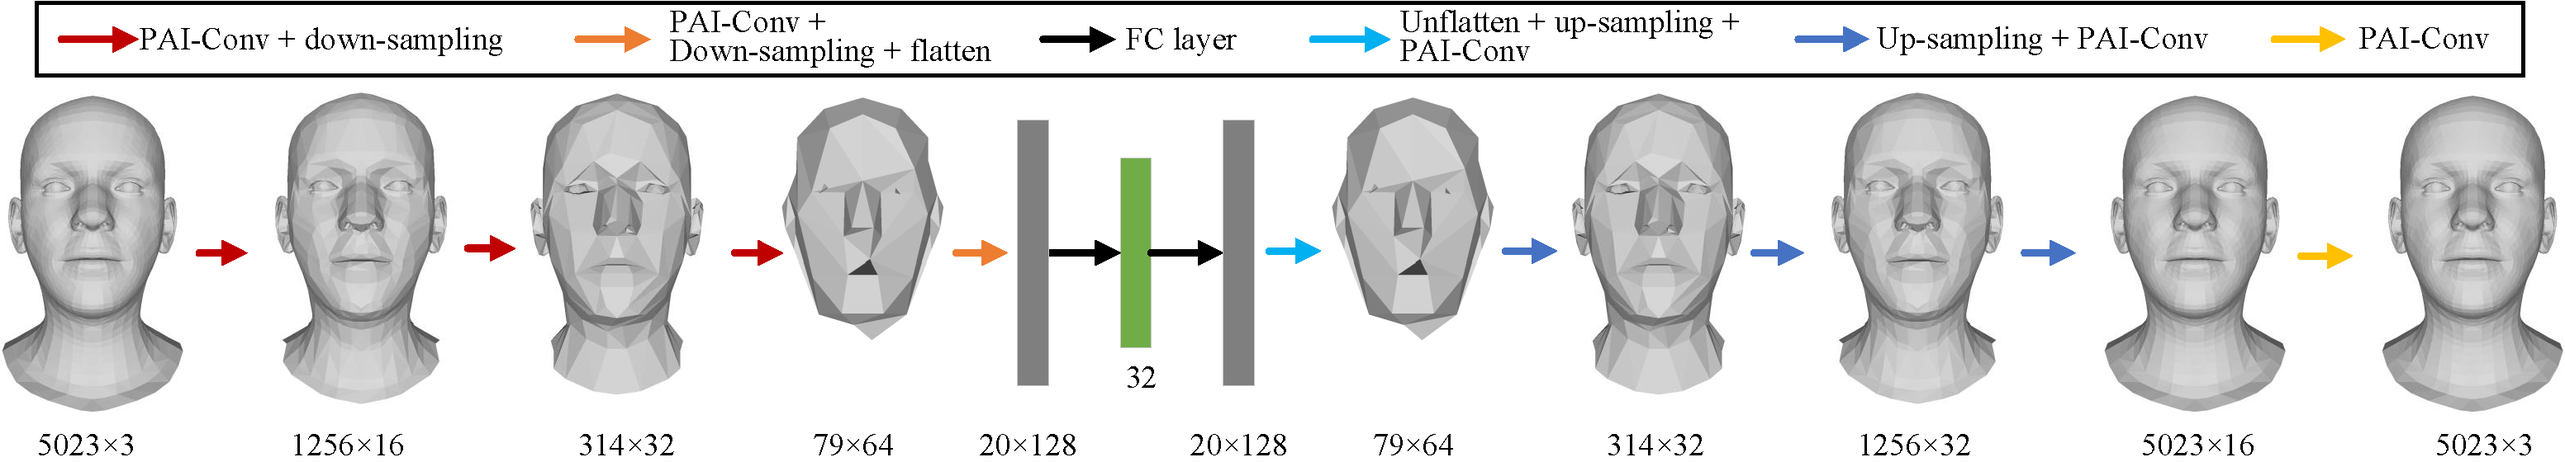
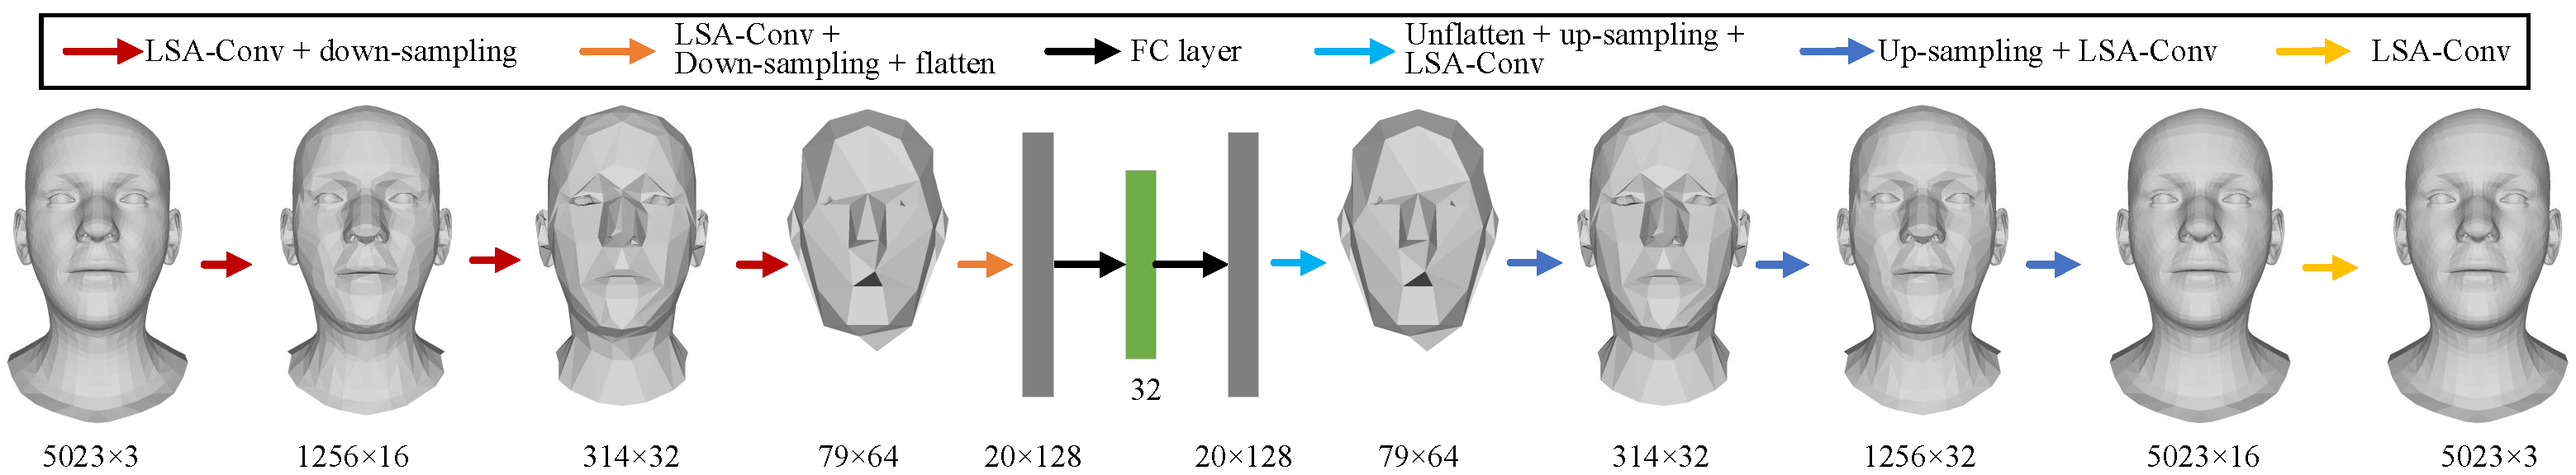
update figures

diff --git a/README.md b/README.md
@@ -7,7 +7,8 @@ Mesh is a powerful data structure for 3D shapes. Representation learning for 3D 
 
 [Arxiv link](https://arxiv.org/abs/2004.09995)
 
-![Pai-Conv](images/pai-gcn.png "Pai-Conv operation")
+![Pai-Conv](images/architecture.png "Pai-Conv operation")
+
 ![Results](images/results.png "Results")
 
 # Repository Requirements
